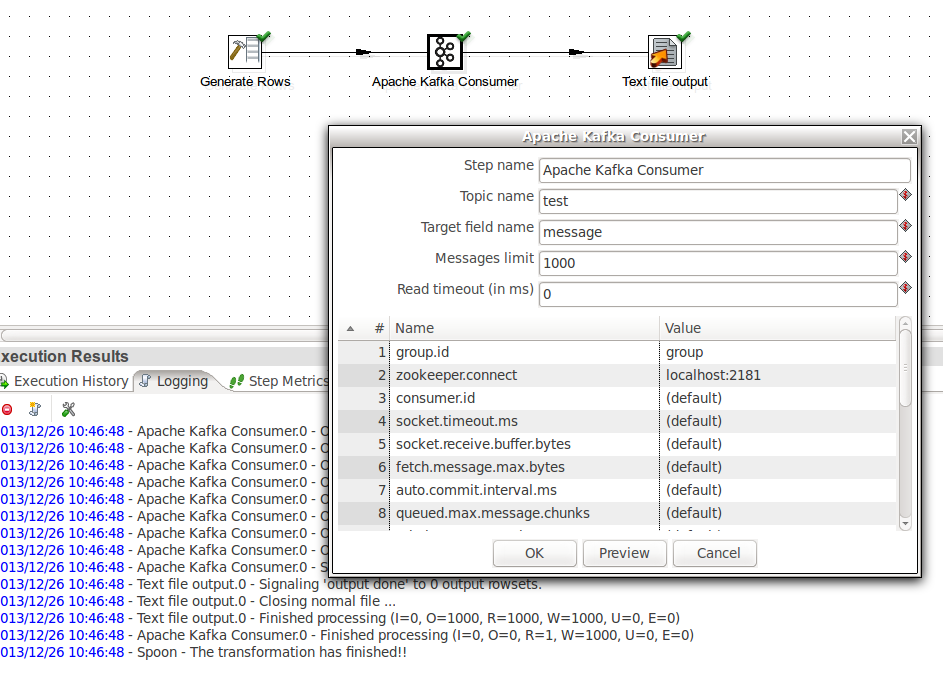
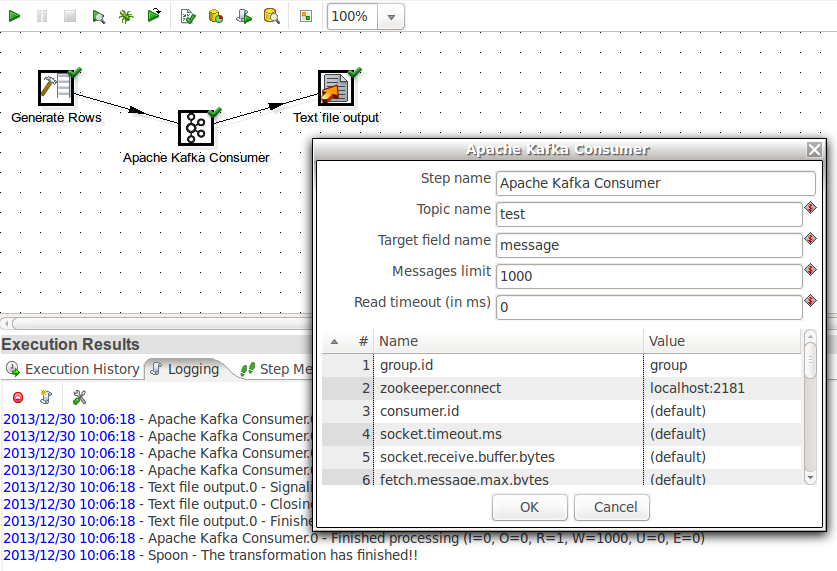
removed unneeded 'Preview' button

diff --git a/src/main/java/com/ruckuswireless/pentaho/kafka/consumer/KafkaConsumerDialog.java b/src/main/java/com/ruckuswireless/pentaho/kafka/consumer/KafkaConsumerDialog.java
@@ -23,18 +23,12 @@ import org.eclipse.swt.widgets.TableItem;
 import org.eclipse.swt.widgets.Text;
 import org.pentaho.di.core.Const;
 import org.pentaho.di.i18n.BaseMessages;
-import org.pentaho.di.trans.Trans;
 import org.pentaho.di.trans.TransMeta;
-import org.pentaho.di.trans.TransPreviewFactory;
 import org.pentaho.di.trans.step.BaseStepMeta;
 import org.pentaho.di.trans.step.StepDialogInterface;
-import org.pentaho.di.ui.core.dialog.EnterNumberDialog;
-import org.pentaho.di.ui.core.dialog.EnterTextDialog;
-import org.pentaho.di.ui.core.dialog.PreviewRowsDialog;
 import org.pentaho.di.ui.core.widget.ColumnInfo;
 import org.pentaho.di.ui.core.widget.TableView;
 import org.pentaho.di.ui.core.widget.TextVar;
-import org.pentaho.di.ui.trans.dialog.TransPreviewProgressDialog;
 import org.pentaho.di.ui.trans.step.BaseStepDialog;
 
 /**
@@ -191,10 +185,8 @@ public class KafkaConsumerDialog extends BaseStepDialog implements StepDialogInt
 		wOK.setText(BaseMessages.getString("System.Button.OK")); //$NON-NLS-1$
 		wCancel = new Button(shell, SWT.PUSH);
 		wCancel.setText(BaseMessages.getString("System.Button.Cancel")); //$NON-NLS-1$
-		wPreview = new Button(shell, SWT.PUSH);
-		wPreview.setText(BaseMessages.getString("System.Button.Preview")); //$NON-NLS-1$
 
-		setButtonPositions(new Button[] { wOK, wPreview, wCancel }, margin, null);
+		setButtonPositions(new Button[] { wOK, wCancel }, margin, null);
 
 		// Kafka properties
 		ColumnInfo[] colinf = new ColumnInfo[] {
@@ -222,14 +214,8 @@ public class KafkaConsumerDialog extends BaseStepDialog implements StepDialogInt
 				ok();
 			}
 		};
-		lsPreview = new Listener() {
-			public void handleEvent(Event e) {
-				preview();
-			}
-		};
 		wCancel.addListener(SWT.Selection, lsCancel);
 		wOK.addListener(SWT.Selection, lsOK);
-		wPreview.addListener(SWT.Selection, lsPreview);
 
 		lsDef = new SelectionAdapter() {
 			public void widgetDefaultSelected(SelectionEvent e) {
@@ -332,42 +318,5 @@ public class KafkaConsumerDialog extends BaseStepDialog implements StepDialogInt
 		setData(consumerMeta);
 		stepname = wStepname.getText();
 		dispose();
-	}
-
-	private void preview() {
-		KafkaConsumerMeta oneMeta = new KafkaConsumerMeta();
-		setData(oneMeta);
-
-		TransMeta previewMeta = TransPreviewFactory.generatePreviewTransformation(transMeta, oneMeta,
-				wStepname.getText());
-		transMeta.getVariable("Internal.Transformation.Filename.Directory");
-		previewMeta.getVariable("Internal.Transformation.Filename.Directory");
-
-		EnterNumberDialog numberDialog = new EnterNumberDialog(shell, props.getDefaultPreviewSize(),
-				Messages.getString("KafkaConsumerDialog.PreviewSize.DialogTitle"),
-				Messages.getString("KafkaConsumerDialog.PreviewSize.DialogMessage"));
-		int previewSize = numberDialog.open();
-		if (previewSize > 0) {
-			TransPreviewProgressDialog progressDialog = new TransPreviewProgressDialog(shell, previewMeta,
-					new String[] { wStepname.getText() }, new int[] { previewSize });
-			progressDialog.open();
-
-			Trans trans = progressDialog.getTrans();
-			String loggingText = progressDialog.getLoggingText();
-
-			if (!progressDialog.isCancelled()) {
-				if (trans.getResult() != null && trans.getResult().getNrErrors() > 0) {
-					EnterTextDialog etd = new EnterTextDialog(shell,
-							Messages.getString("System.Dialog.PreviewError.Title"),
-							Messages.getString("System.Dialog.PreviewError.Message"), loggingText, true);
-					etd.setReadOnly();
-					etd.open();
-				}
-			}
-			PreviewRowsDialog prd = new PreviewRowsDialog(shell, transMeta, SWT.NONE, wStepname.getText(),
-					progressDialog.getPreviewRowsMeta(wStepname.getText()), progressDialog.getPreviewRows(wStepname
-							.getText()), loggingText);
-			prd.open();
-		}
 	}
 }
